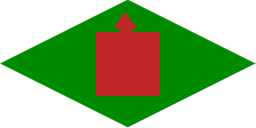
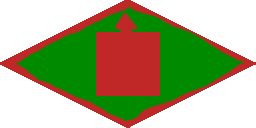
MAJ render sans les falaises/murs

Changed region(s): [[0.0, 0.0, 1.0, 1.0]]

diff --git a/mygdxgame/src/com/me/mygdxgame/data/DataMap.java b/mygdxgame/src/com/me/mygdxgame/data/DataMap.java
@@ -29,14 +29,15 @@ public class DataMap extends DataBase{
 
 	public void loadMap() {
 		
-		
+		//TODO
 		Decal oneDecal;
 		for(int j=0; j < sizeInTiles.y; j++) {
 			for(int i=0; i < sizeInTiles.x; i++) {
 				oneDecal = DecalMgr.build(tilemap[i][j]);
-				oneDecal.setDimensions(2f,1);
-				oneDecal.setPosition((i - j)*0.5f + 25, heightmap[i][j]*0.25f, (i + j));
-				oneDecal.setRotationY(90);
+				oneDecal.setDimensions(2f,1f);
+				oneDecal.setPosition((i-j), -(i+j)*0.5f + heightmap[i][j] * 0.25f, heightmap[i][j] - maximumHeight);
+				if(heightmap[i][j] > 0)
+					oneDecal.setColor(0.5f, 0.5f, 0.5f, 1f);
 				decals.add(oneDecal);
 			}
 		}

diff --git a/mygdxgame/src/com/me/mygdxgame/game/GameCamera.java b/mygdxgame/src/com/me/mygdxgame/game/GameCamera.java
@@ -2,15 +2,19 @@ package com.me.mygdxgame.game;
 
 import com.badlogic.gdx.Gdx;
 import com.badlogic.gdx.graphics.OrthographicCamera;
+import com.me.mygdxgame.utils.Cst;
 
 public class GameCamera extends OrthographicCamera{
 	
 	public GameCamera(){
 		
 		super(20, 20 * (Gdx.graphics.getHeight() / (float)Gdx.graphics.getWidth()));			
-		position.set(0, 20, 0);
+		/*position.set(5, 20, 5);
+		position.y = 20;
 		//up.scale(0, -1, 0);
-		direction.set(1, -1, 0);
+		direction.set(1, -1, 0);*/
+		//System.out.println(direction.dot(Cst.XY_PLANE.normal));
+		
 		near =0;
 		far = 100;
 		

diff --git a/mygdxgame/src/com/me/mygdxgame/utils/Cst.java b/mygdxgame/src/com/me/mygdxgame/utils/Cst.java
@@ -13,7 +13,7 @@ public class Cst {
 	public static final int TILE_WALL_W = 128;
 	public static final int TILE_WALL_HW = 64;
 	
-	public static final Point2i MAP_SIZE = new Point2i(5, 5);
+	public static final Point2i MAP_SIZE = new Point2i(100, 100);
 	
 	public static final int TILE_HW = TILE_W / 2;
 	public static final int TILE_HH = TILE_H / 2;

diff --git a/mygdxgame/src/com/me/mygdxgame/mgr/DataMgr.java b/mygdxgame/src/com/me/mygdxgame/mgr/DataMgr.java
@@ -24,7 +24,7 @@ public class DataMgr {
 		Debug.debugMsg("Loading database");
 
 		Data.textures = new ArrayList<DataTexture>();
-
+		//TODO
 		Data.textures.add(new DataTexture(0,"Floor","greenTile.png"));
 		Data.textures.add(new DataTexture(1,"WallLeft","wallLeft.png"));
 		Data.textures.add(new DataTexture(2,"WallRight","wallRight.png"));

diff --git a/mygdxgame/src/com/me/mygdxgame/sprite/SpritesetMap.java b/mygdxgame/src/com/me/mygdxgame/sprite/SpritesetMap.java
@@ -36,6 +36,7 @@ public class SpritesetMap {
 		Game.camera.update();
 		Game.camera.apply(gl);
 
+		
 		for(Decal oneDecal : Game.map.mapData.getDecals()) {
 			decalBatch.add(oneDecal);
 		}
